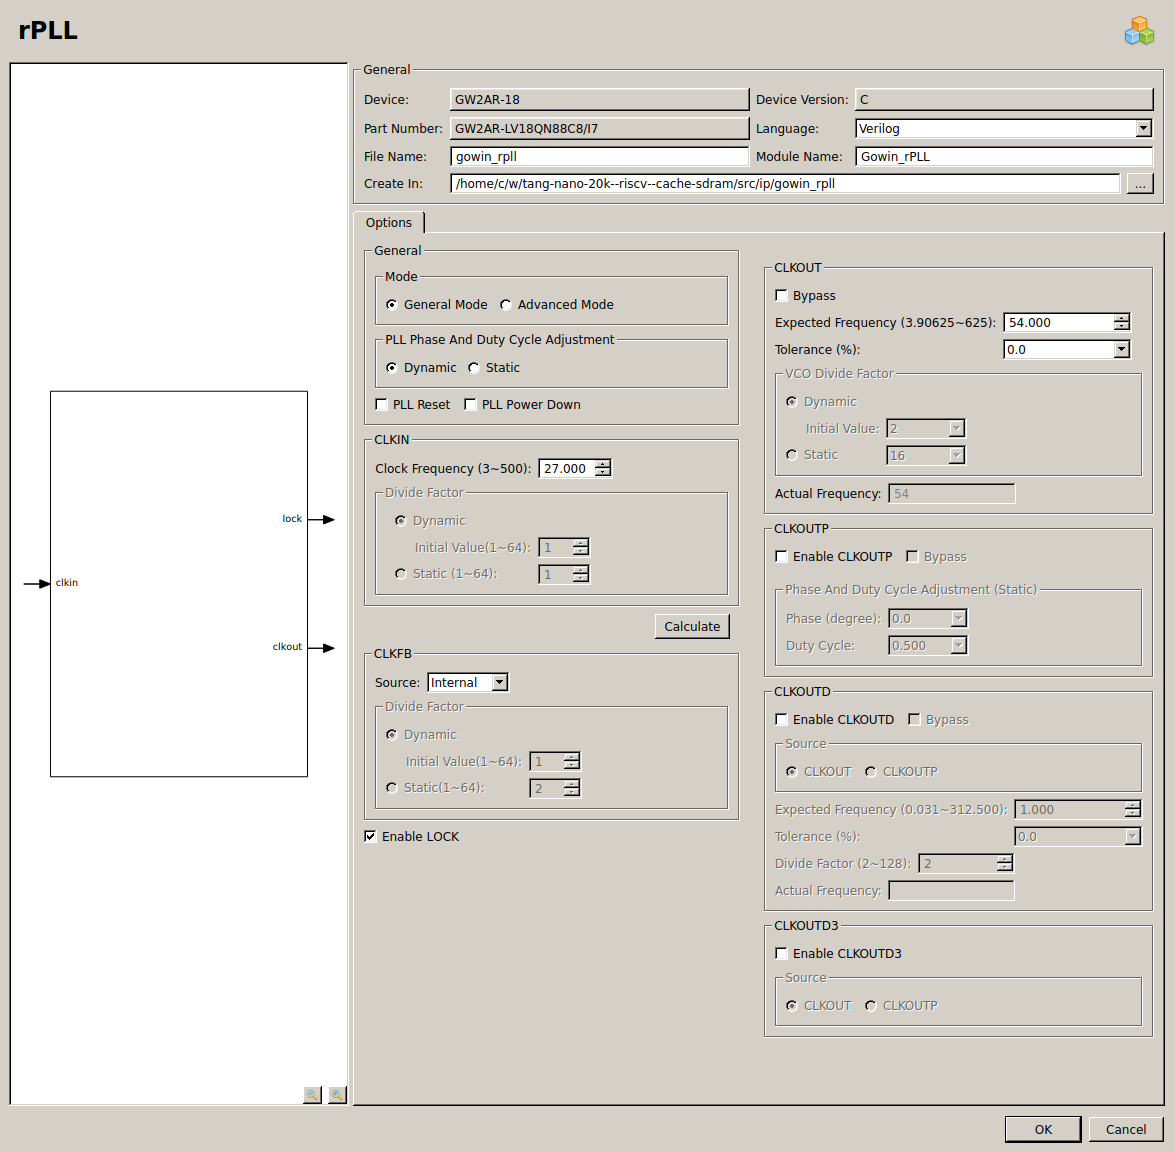
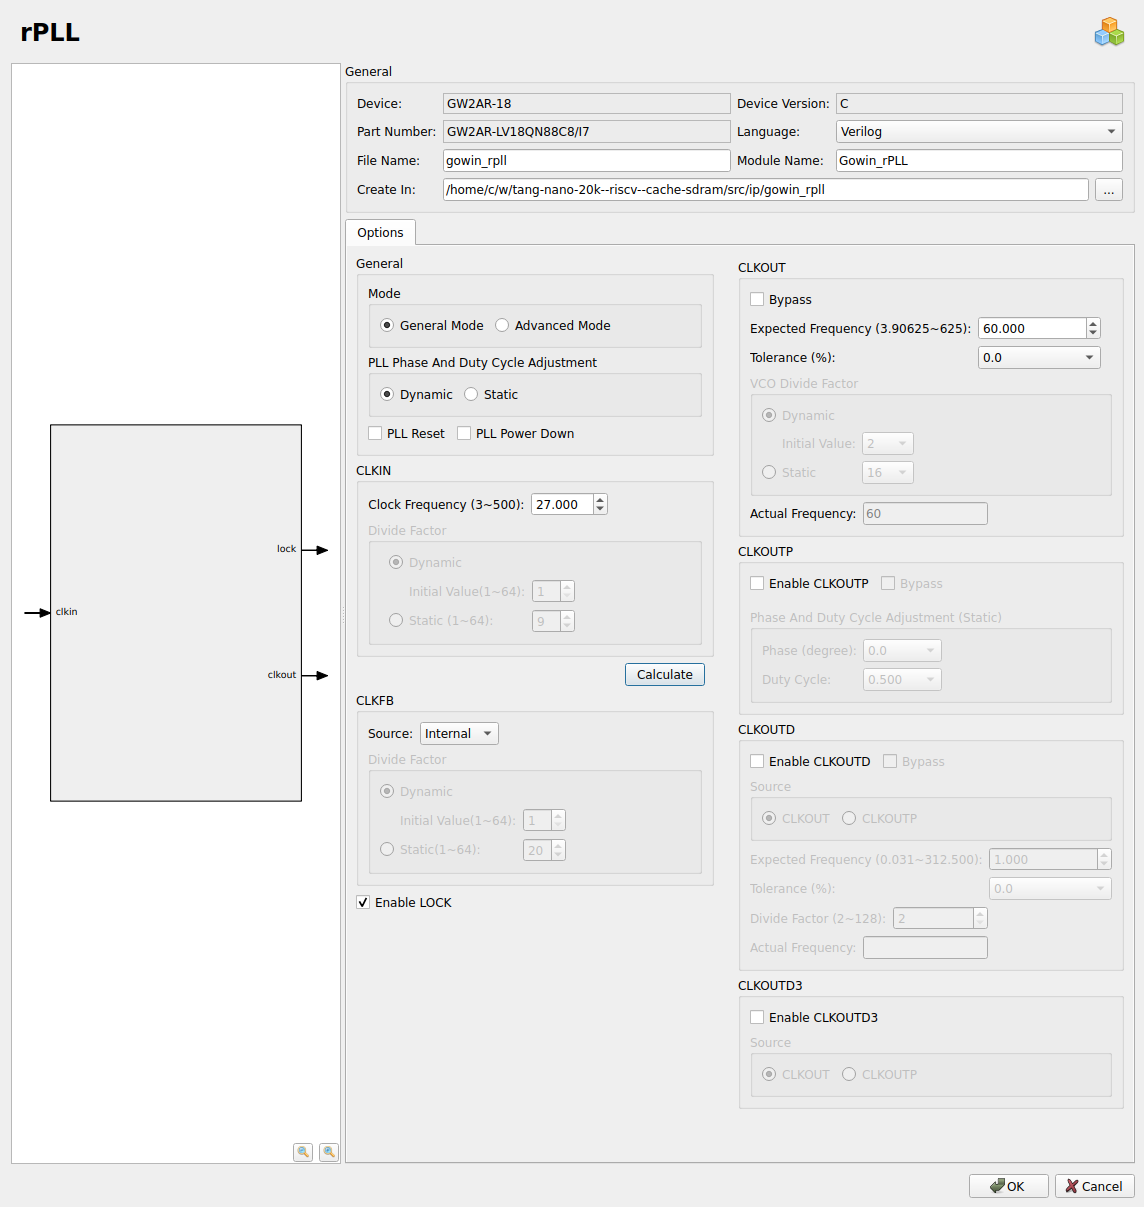
.

diff --git a/configuration.py b/configuration.py
@@ -8,7 +8,7 @@ BOARD_NAME = "tangnano20k"
 CLOCK_FREQUENCY_HZ = 27_000_000
 # frequency of clock in (signal 'clk')
 
-CPU_FREQUENCY_HZ = 54_000_000
+CPU_FREQUENCY_HZ = 60_000_000
 # frequency that CPU runs on
 
 RAM_ADDRESS_BITWIDTH = 21
